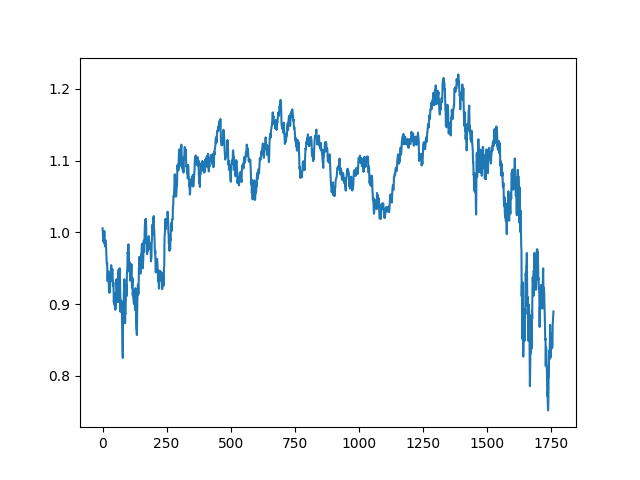
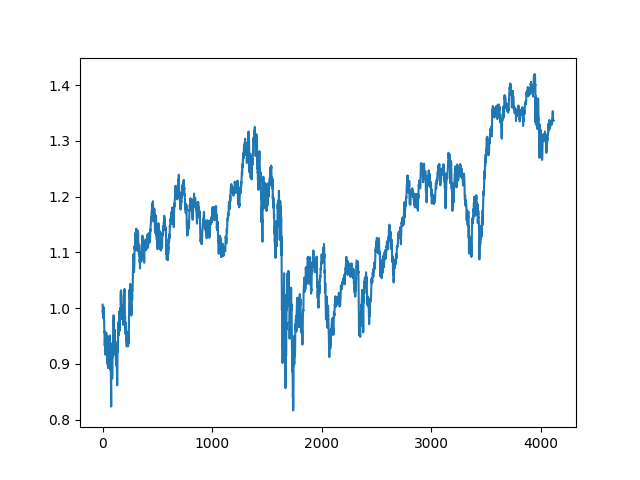
random batches

diff --git a/main.py b/main.py
@@ -12,6 +12,7 @@ import numpy as np
 def train(env,agent,num_episodes,args):
     a = []
     start = time.time()
+    fig, ax = plt.subplots()
     with torch.autograd.set_detect_anomaly(True):
         for i in tqdm(range(num_episodes)):
             done = False
@@ -19,18 +20,18 @@ def train(env,agent,num_episodes,args):
             obs, weights = env.reset()
             agent.reset()
             while not done:
-                weights = agent.get_action(obs,weights)
-                obs_, reward, done, _ = env.step(weights.detach().numpy())
-                pv_vector = torch.sum(weights*torch.from_numpy(np.array(env.future_prices,dtype=np.float16)))
-                agent.store_transition(obs, pv_vector, reward, obs_ )
+                next_weights = agent.get_action(obs,weights)
+                obs_, reward, done, _ = env.step(next_weights.detach().numpy())
+                # pv_vector = torch.sum(weights*torch.from_numpy(np.array(env.future_prices,dtype=np.float16)))
+                agent.store_transition(obs, weights.detach(), reward, obs_ )
                 agent.learn()
                 obs = obs_
+                weights = next_weights
                 a.append(env.get_current_portfolio_value())
             print(min(a),a[-1],max(a))
             if i % 50 == 0:
-                plt.plot(range(len(a)),a)
-                plt.savefig('./plots/train_'+str(i))
-                plt.close()
+                ax.plot(range(len(a)),a)
+                ax.figure.savefig('./plots/train_'+str(i))
                 test(env,agent,args.test_start_date,args.test_end_date,i)
             
             a = []
@@ -44,6 +45,7 @@ def test(env,agent,start_date,end_date,epoch):
     obs, weights = env.reset()
     a = []
     all_weights = []
+    
     while not done:
         with torch.no_grad():
             #all_weights.append(weights.numpy())
@@ -51,28 +53,27 @@ def test(env,agent,start_date,end_date,epoch):
             obs_, reward, done, _ = env.step(weights.detach().numpy())
             obs = obs_
             a.append(env.get_current_portfolio_value())
-    plt.plot(range(len(a)),a)
-    plt.savefig('./plots/test_'+str(epoch))
-    plt.close()
+    test_ax.plot(range(len(a)),a)
+    test_ax.figure.savefig('./plots/test_'+str(epoch))
 
 def get_args():
 
     parser = argparse.ArgumentParser()
 
     parser.add_argument('--assets_number', type = int, default = 28, help='number of assets')
-    parser.add_argument('--trading_window_size',type = int, default = 30, help= 'number of last n trades taking in consideration')
+    parser.add_argument('--trading_window_size',type = int, default = 10, help= 'number of last n trades taking in consideration')
     parser.add_argument('--gamma', type = float, default = 0.99, help='discount factor')
     parser.add_argument('--device', type=str, default='cpu', help='gpu/cpu')
     parser.add_argument('--num_episodes', type=int, default=1000, help='number of training episodes')    
-    parser.add_argument('--batch_size', type=int, default=1, help='batch size') 
+    parser.add_argument('--batch_size', type=int, default=32, help='batch size') 
     parser.add_argument('--actor_lr', type=float, default=1e-3, help='actor learning rate')
-    parser.add_argument('--critic_lr', type=float, default=1e-4, help='critic learning rate')
+    parser.add_argument('--critic_lr', type=float, default=1e-2, help='critic learning rate')
     parser.add_argument('--actor_weight_decay', type=float, default=0, help='L2 regularization on actor model weights')
     parser.add_argument('--critic_weight_decay', type=float, default=0, help='L2 regularization on critic model weights')
     parser.add_argument('--train_start_date', type=str,default = '2002-04-01', help='training start date (format: %YYYY-mm-dd)')
-    parser.add_argument('--train_end_date', type=str,default = '2009-04-16', help='training end date (format: %YYYY-mm-dd)')
-    parser.add_argument('--test_start_date', type=str,default = '2010-03-15', help='testing start date (format: %YYYY-mm-dd)')
-    parser.add_argument('--test_end_date', type=str,default = '2010-07-21', help='testing end date (format: %YYYY-mm-dd)')
+    parser.add_argument('--train_end_date', type=str,default = '2018-10-19', help='training end date (format: %YYYY-mm-dd)')
+    parser.add_argument('--test_start_date', type=str,default = '2019-06-09', help='testing start date (format: %YYYY-mm-dd)')
+    parser.add_argument('--test_end_date', type=str,default = '2019-10-16', help='testing end date (format: %YYYY-mm-dd)')
     parser.add_argument('--starting_cash',type = float, default = 1, help='starting cash value')
     parser.add_argument('--online',type = bool,default = False, help='offline/online usage')
     parser.add_argument('--buffer_size', type = int, default = 400,help='size of buffer containg data')
@@ -81,7 +82,7 @@ def get_args():
     parser.add_argument('--gnn_input_channels',type = int, default = 3, help = 'gnn input channels')
     parser.add_argument('--gnn_hidden_channels',type = str,default='8,8,8', help = 'hidden channel sizes (format: 16,16,16)')
     parser.add_argument('--gnn_output_channels',type = int, default = 3, help = 'gnn output channels')
-    parser.add_argument('--mem_size',type = int, default = 1, help = 'memory size')
+    parser.add_argument('--mem_size',type = int, default = 5000, help = 'memory size')
     parser.add_argument('--sample_bias', type=float, default = 1e-5,help = 'sample bias')
     parser.add_argument('--number_of_batches', type=int, default = 5, help = 'number of minibatches in agent learning')
 
@@ -92,6 +93,7 @@ def get_args():
 if __name__ == '__main__':
     args = get_args()
     env = make_env(args)
+    test_fig, test_ax = plt.subplots()
     agent = Agent(args.gnn_input_channels,args.gnn_hidden_channels,args.gnn_output_channels,args.cheb_k,args.assets_number,args.trading_window_size,args.actor_lr,args.critic_lr,args.actor_weight_decay,args.critic_weight_decay,args.gamma,args.batch_size,args.mem_size,[args.gnn_output_channels,args.assets_number+1],args.sample_bias, args.number_of_batches)
     train(env,agent,args.num_episodes,args)
     test(env,agent,args.test_start_date,args.test_end_date,'last')

diff --git a/agent/agent.py b/agent/agent.py
@@ -16,8 +16,8 @@ class Agent():
         self.nb = nb
 
 
-    def get_action(self,obs,prev_weigths):
-        return self.actor(obs, prev_weigths)
+    def get_action(self,obs,prev_weigths, learn = False):
+        return self.actor(obs, prev_weigths,learn = learn)
     
     def store_transition(self, state, action, reward, state_):
         self.memory.store_transition(state, action, reward, state_)
@@ -32,9 +32,9 @@ class Agent():
         return states, actions, rewards, states_
     
     def learn(self):
-        if self.memory.mem_cntr < self.memory.mem_size:
+        if self.memory.mem_cntr%501 != 0 :
             return
-        
+
         actor_loss = 0
         critic_loss = 0
         self.critic.optimizer.zero_grad()
@@ -42,27 +42,29 @@ class Agent():
         
 
         states, actions, rewards, states_, = self.sample_memory()
-        q_pred = self.critic(states)
-        q_next = self.critic(states_)
-        adv =  rewards + self.gamma* q_next - q_pred
+        for _ in range(self.nb):
+            q_pred = self.critic(states)
+            q_next = self.critic(states_)
+            adv =  rewards + self.gamma* q_next - q_pred
 
-        critic_loss = torch.mean(pow(adv,2))
-        # x = actions.clone().detach()
+            critic_loss = torch.mean(torch.mul(adv,q_pred))
+            # x = actions.clone().detach()
 
-        # mean,std  = torch.mean(x, dim=0), torch.std(x, dim = 0)
+            # mean,std  = torch.mean(x, dim=0), torch.std(x, dim = 0)
 
-        # mean = torch.clip(mean, min = 1e-6, max = 60)
-        # std = torch.clip(std,min = 1e-6,max = 30)
-        #dist = Normal(mean,std)
-        actor_loss = -1*torch.mean(torch.log(actions))
-        #actor_loss = -1*torch.mean(torch.sum(dist.log_prob(actions)) * adv.clone().detach())
-        #actor_loss += (actions.log().mean()*adv.detach()).mean()
-        
-        actor_loss.backward()
-        critic_loss.backward()
-        self.critic.optimizer.step()
-        self.actor.optimizer.step()
-        self.reset()
+            # mean = torch.clip(mean, min = 1e-6, max = 60)
+            # std = torch.clip(std,min = 1e-6,max = 30)
+            # dist = Normal(mean,std)
+            actions = self.get_action(states,actions,learn = True)
+            actor_loss = -1*torch.mean(torch.log(torch.mean(actions))*adv.detach())
+            #actor_loss = -1*torch.mean(torch.sum(dist.log_prob(actions)) * adv.clone().detach())
+            #actor_loss += (actions.log().mean()*adv.detach()).mean()
+            
+            actor_loss.backward()
+            critic_loss.backward()
+            self.critic.optimizer.step()
+            self.actor.optimizer.step()
+
     
     def reset(self):
         self.memory.reset()

diff --git a/agent/actor.py b/agent/actor.py
@@ -14,14 +14,20 @@ class Actor(nn.Module):
         self.trading_window_size = trading_window_size
         self.optimizer = optim.Adam(self.parameters(),lr = actor_lr,weight_decay = actor_weight_decay)
 
-    def forward(self, x, prev_weigths):
+    def forward(self, x, prev_weigths, learn = False):
         prev_weigths = prev_weigths.clone().detach()
-
-        x = torch.tanh(self.conv1(x.unsqueeze(0)))
+        if learn == False:
+            x = x.unsqueeze(0)
+        x = torch.tanh(self.conv1(x))
         x = torch.tanh(self.conv2(x))
+        if learn:
+            c = prev_weigths[:,1:].unsqueeze(-1).unsqueeze(0).permute(1,0,2,3)
+            c = torch.cat([c,x],dim = 1)
+
+            print(c.shape)
         x = torch.cat((prev_weigths[1:].unsqueeze(-1).unsqueeze(0),x.squeeze(0)),0).unsqueeze(0)
         x = torch.tanh(self.conv3(x))
-        x = torch.cat((prev_weigths[0].unsqueeze(0).unsqueeze(-1),x.squeeze(0).squeeze(0)))
+        x = torch.cat(([1].unsqueeze(0).unsqueeze(-1),x.squeeze(0).squeeze(0)))
 
         return torch.softmax(x,dim = 0).reshape(-1)
 

diff --git a/agent/replay_memory.py b/agent/replay_memory.py
@@ -12,6 +12,7 @@ class ReplayBuffer():
         self.new_state_memory = [None]*self.mem_size
         self.action_memory = [None]*self.mem_size
         self.reward_memory = np.zeros(self.mem_size, dtype=np.float32)
+        self.sample_bias = sample_bias
         #probabilities = [sample_bias*pow((1-sample_bias),self.mem_size - t - self.batch_size) for t in range(self.mem_size - self.batch_size)]
         #self.distribution = Geometric(torch.tensor(probabilities))
 
@@ -24,8 +25,8 @@ class ReplayBuffer():
         self.mem_cntr += 1
 
     def sample_buffer(self):
-        index =0
-        
+        end = self.mem_cntr - self.batch_size
+        index = np.random.randint(0,end)
         return self.state_memory[index:index+self.batch_size], self.action_memory[index:index+self.batch_size],  self.reward_memory[index:index+self.batch_size], self.new_state_memory[index:index+self.batch_size]
     
     def reset(self):

diff --git a/test.py b/test.py
@@ -1,10 +1,5 @@
-from torch.distributions import Categorical,Normal
-import torch
+import numpy as np
 
-probs = torch.tensor([0.0541, 0.0397, 0.0335, 0.0359, 0.0315, 0.0327, 0.0336, 0.0331, 0.0318,
-        0.0305, 0.0324, 0.0339, 0.0356, 0.0343, 0.0319, 0.0392, 0.0299, 0.0299,
-        0.0362, 0.0338, 0.0322, 0.0330, 0.0404, 0.0309, 0.0355, 0.0312, 0.0331,
-        0.0393, 0.0308])
 
-cat = Categorical(probs = probs)
-print(cat.sample())
+for x in range(100):
+    print(np.random.randint(0,100))
